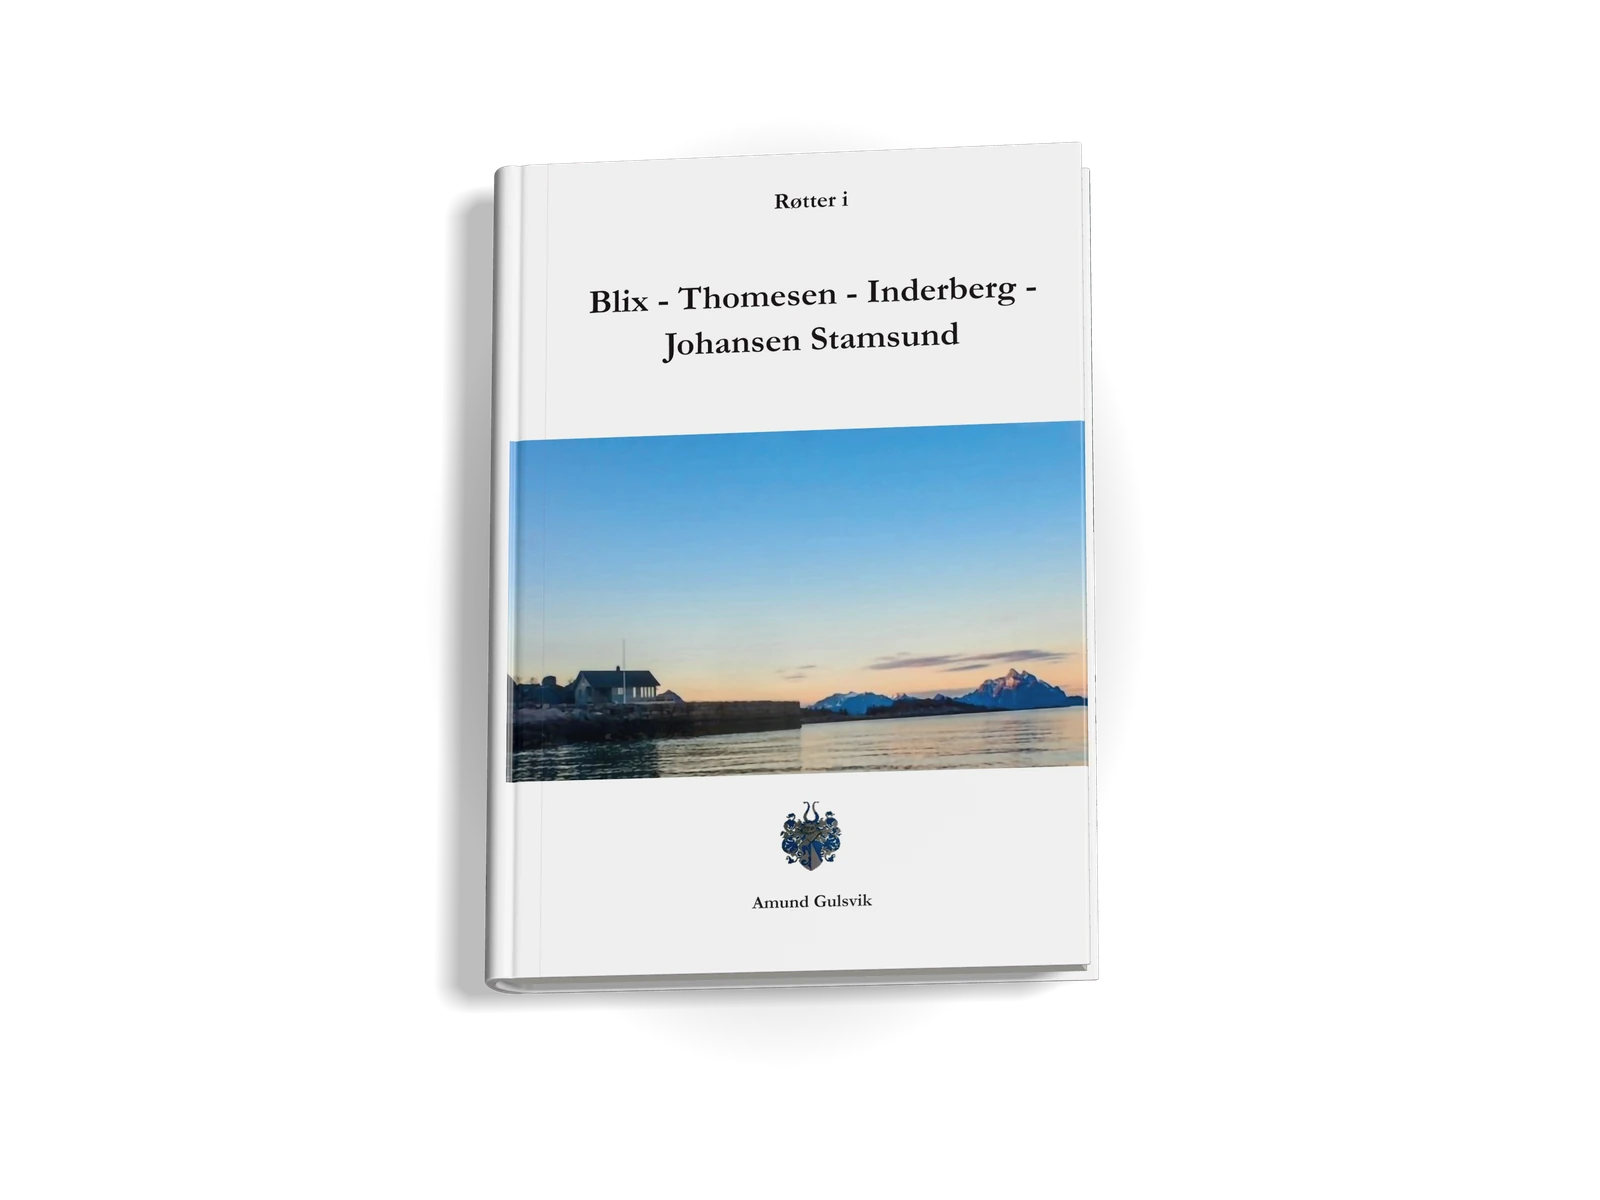
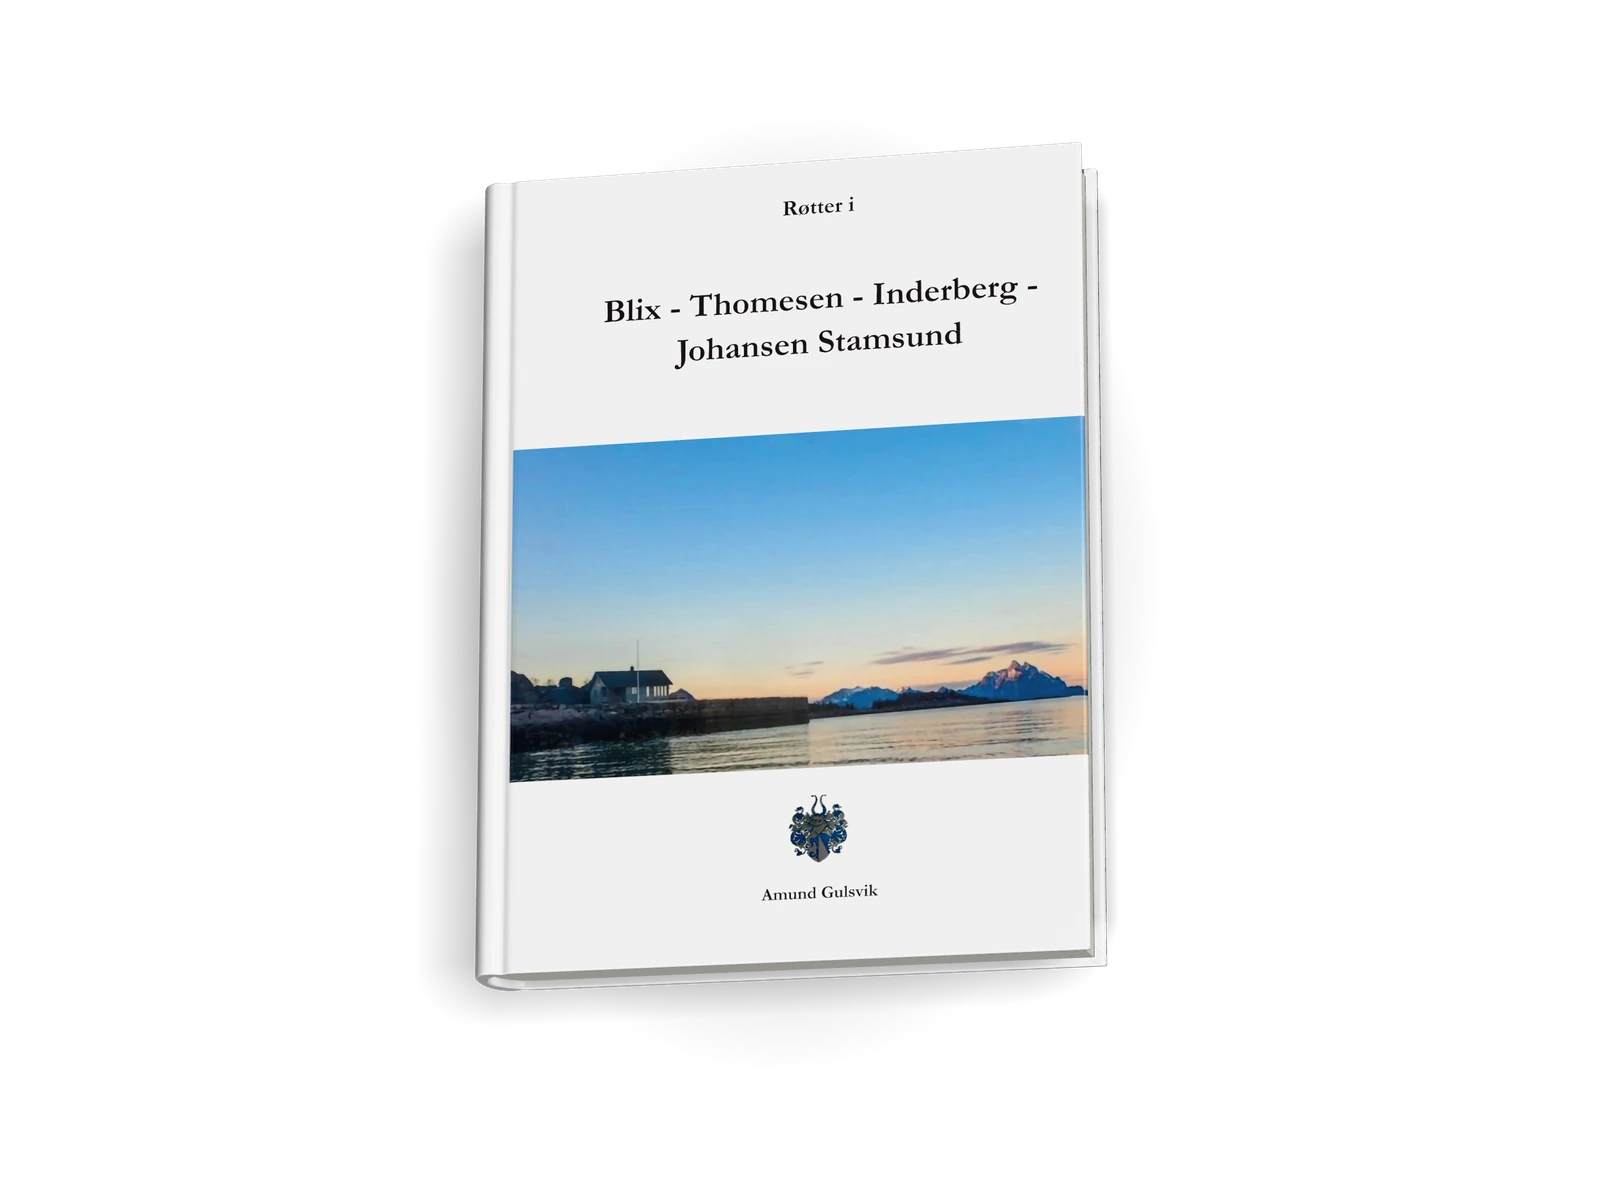
Book render: print-file cover, soft hinge, corner turn-ins, softer shadows
The cover texture is the print PDF laid on the case at its real measures, so the
art wraps round the fore edge. Wider, deeper hinge groove, diagonal turn-in folds
at the board corners, softer cast and contact shadows, camera shows more edge.

Changed region(s): [[0.2812, 0.1233, 0.7188, 0.8325], [0.4688, 0.1542, 0.5312, 0.185]]

diff --git a/tools/book-render/render.html b/tools/book-render/render.html
@@ -5,67 +5,65 @@
 </head><body>
 <script type="module">
 // Offline render of the hardcover (book.md, 3D mockup). Units: mm. Output: transparent PNG, shadow included.
+// Cover texture: cover-wrap.jpg, the print file omslag_34_18.pdf at 10 px/mm (page 560.8 x 383.8 mm).
 import * as THREE from 'three';
 import { RoomEnvironment } from 'three/addons/environments/RoomEnvironment.js';
 import { mergeVertices } from 'three/addons/utils/BufferGeometryUtils.js';
 
 const P = new URLSearchParams(location.search);
-const OUT_W = +(P.get('w') || 1600), OUT_H = +(P.get('h') || 1200);
-const ROT = +(P.get('rot') || 0), CAM_X = +(P.get('cx') || 300), CAM_Y = +(P.get('cy') || 2150), CAM_Z = +(P.get('cz') || 520);
+const num = (k, d) => (P.has(k) ? +P.get(k) : d);
+const OUT_W = num('w', 1600), OUT_H = num('h', 1200);
+const CAM_X = num('cx', 480), CAM_Y = num('cy', 2150), CAM_Z = num('cz', 560);
 
+// print file, mm: back 43.4-253.4 | hinge | spine 263.6-297.4 | hinge | front 307.4-517.4; height 43.4-340.4; turn-in 18
+const PAGE_W = 560.8, PAGE_H = 383.8, FORE_F = 517.4, FORE_B = 43.4, TOP = 43.4, BOT = 340.4;
 const H = 297;          // board height
 const TB = 1.0;         // board thickness in the shape, bevel adds the rest (about 2.8 mm)
 const ZO = 16.2, ZI = ZO - TB;
 const BEV = 0.9;
+const ZOB = ZO + BEV, ZIB = ZI - BEV, XF = 105 + BEV;   // outer surfaces after the bevel
 
-const load = src => new Promise(r => { const i = new Image(); i.onload = () => r(i); i.src = src; });
-const [front, spine, back] = await Promise.all(['cover-front.jpg','cover-spine.jpg','cover-back.jpg'].map(f => load('../../assets/work/book/' + f)));
-
-// one wrap texture: white | back | spine | front | white (the print file order)
-const CH = 1697, SW = Math.round(spine.width * CH / spine.height), M = 48;
-const wrapC = document.createElement('canvas'); wrapC.width = M + 1200 + SW + 1200 + M; wrapC.height = CH;
-const g = wrapC.getContext('2d'); g.fillStyle = '#fff'; g.fillRect(0, 0, wrapC.width, CH);
-g.drawImage(back, M, 0, 1200, CH); g.drawImage(spine, M + 1200, 0, SW, CH); g.drawImage(front, M + 1200 + SW, 0, 1200, CH);
-const WW = wrapC.width;
-const U = { whiteL: (M / 2) / WW, back0: M / WW, spine0: (M + 1200) / WW, front0: (M + 1200 + SW) / WW, front1: (M + 2400 + SW) / WW, whiteR: (WW - M / 2) / WW };
-const wrapTex = new THREE.CanvasTexture(wrapC); wrapTex.colorSpace = THREE.SRGBColorSpace; wrapTex.anisotropy = 16;
+let seed = 7; const rnd = () => (seed = (seed * 16807) % 2147483647) / 2147483647;
+const wrapTex = await new THREE.TextureLoader().loadAsync('cover-wrap.jpg');
+wrapTex.colorSpace = THREE.SRGBColorSpace; wrapTex.anisotropy = 16;
 
 // page edges: fine, slightly irregular lines
 const pc = document.createElement('canvas'); pc.width = 2048; pc.height = 64;
 const pg = pc.getContext('2d'); pg.fillStyle = '#f5f2ea'; pg.fillRect(0, 0, 2048, 64);
-let x = 0, seed = 7; const rnd = () => (seed = (seed * 16807) % 2147483647) / 2147483647;
-while (x < 2048) { const w = 1 + rnd() * 1.6; const a = 0.05 + rnd() * 0.16; pg.fillStyle = `rgba(90,80,60,${a})`; pg.fillRect(x, 0, 0.8, 64); x += w + 2.2 + rnd() * 1.5; }
+for (let x = 0; x < 2048;) { const a = 0.05 + rnd() * 0.16; pg.fillStyle = `rgba(90,80,60,${a})`; pg.fillRect(x, 0, 0.8, 64); x += 3.2 + rnd() * 3; }
 const pageTex = new THREE.CanvasTexture(pc); pageTex.colorSpace = THREE.SRGBColorSpace; pageTex.anisotropy = 16;
 
-// case cross-section (x, z) -> Shape(x, -z); fore edge at x = 105, rounded spine at x = -108
-function caseShape() {
-  const s = new THREE.Shape(); const r = 0.8;
-  const m = (x, z) => s.moveTo(x, -z), l = (x, z) => s.lineTo(x, -z);
-  const q = (cx, cz, x, z) => s.quadraticCurveTo(cx, -cz, x, -z);
-  const b = (ax, az, bx, bz, x, z) => s.bezierCurveTo(ax, -az, bx, -bz, x, -z);
-  m(105 - r, ZO);
-  l(-93.5, ZO);
-  b(-95.5, ZO, -96.2, ZO - 1.1, -97.4, ZO - 1.1);   // hinge groove
-  b(-98.6, ZO - 1.1, -99.2, ZO - 0.2, -100.4, ZO - 0.1);
-  b(-105.6, ZO, -108.2, 8.5, -108.2, 0);             // rounded spine
-  b(-108.2, -8.5, -105.6, -ZO, -100.4, -ZO + 0.1);
-  b(-99.2, -ZO + 0.2, -98.6, -ZO + 1.1, -97.4, -ZO + 1.1);
-  b(-96.2, -ZO + 1.1, -95.5, -ZO, -93.5, -ZO);
-  l(105 - r, -ZO); q(105, -ZO, 105, -ZO + r); l(105, -ZI - r); q(105, -ZI, 105 - r, -ZI);
-  l(-94, -ZI);
-  b(-100, -ZI, -106.4, -7.5, -106.4, 0);             // inside of the spine
-  b(-106.4, 7.5, -100, ZI, -94, ZI);
-  l(105 - r, ZI); q(105, ZI, 105, ZI + r); l(105, ZO - r); q(105, ZO, 105 - r, ZO);
-  return s;
+// outer run of the case, front fore edge -> hinge -> rounded spine -> hinge -> back fore edge, in (x, z)
+function outerRun(p) {
+  const b = (ax, az, bx, bz, x, z) => p.bezierCurveTo(ax, az, bx, bz, x, z);
+  p.lineTo(-103, ZO);
+  b(-105.8, ZO, -106.6, ZO - 1.7, -108.4, ZO - 1.7);   // soft, wide hinge groove
+  b(-110.2, ZO - 1.7, -110.8, ZO - 0.2, -112.2, ZO - 0.1);
+  b(-117.4, ZO, -119.8, 8.5, -119.8, 0);                  // rounded spine
+  b(-119.8, -8.5, -117.4, -ZO, -112.2, -ZO + 0.1);
+  b(-110.8, -ZO + 0.2, -110.2, -ZO + 1.7, -108.4, -ZO + 1.7);
+  b(-106.6, -ZO + 1.7, -105.8, -ZO, -103, -ZO);
+  p.lineTo(105, -ZO);
 }
-// page block: square 3 mm, fore edge slightly concave, back rounded to follow the spine
+function caseShape() {
+  // Shape space is (x, -z); build in (x, z) and flip at the end
+  const p = new THREE.Path(); const r = 0.8;
+  p.moveTo(105 - r, ZO); outerRun(p);
+  p.quadraticCurveTo(105, -ZO, 105, -ZO + r); p.lineTo(105, -ZI - r); p.quadraticCurveTo(105, -ZI, 105 - r, -ZI);
+  p.lineTo(-104, -ZI);
+  p.bezierCurveTo(-111, -ZI, -118, -7.5, -118, 0);        // inside of the spine
+  p.bezierCurveTo(-118, 7.5, -111, ZI, -104, ZI);
+  p.lineTo(105 - r, ZI); p.quadraticCurveTo(105, ZI, 105, ZI + r); p.lineTo(105, ZO - r); p.quadraticCurveTo(105, ZO, 105 - r, ZO);
+  return new THREE.Shape(p.getPoints(48).map(v => new THREE.Vector2(v.x, -v.y)));
+}
+// page block: 3 mm squares, fore edge slightly concave, back rounded to follow the spine
 function blockShape() {
-  const s = new THREE.Shape(); const Z = ZI - BEV - 0.35;
+  const s = new THREE.Shape(); const Z = ZIB - 0.35;
   s.moveTo(101.6, -Z);
   s.quadraticCurveTo(100.4, 0, 101.6, Z);
-  s.lineTo(-96, Z);
-  s.bezierCurveTo(-102, Z, -105.2, 7, -105.2, 0);
-  s.bezierCurveTo(-105.2, -7, -102, -Z, -96, -Z);
+  s.lineTo(-104, Z);
+  s.bezierCurveTo(-111, Z, -116.2, 7, -116.2, 0);
+  s.bezierCurveTo(-116.2, -7, -111, -Z, -104, -Z);
   s.lineTo(101.6, -Z);
   return s;
 }
@@ -78,33 +76,43 @@ function extrude(shape, depth, bevel, segs) {
   return geo;
 }
 
+// arc length along the outer run, so the print file lies on the case at its real measures
+const run = new THREE.Path(); run.moveTo(105, ZO); outerRun(run);
+const pts = run.getSpacedPoints(1600); const acc = [0];
+for (let i = 1; i < pts.length; i++) acc.push(acc[i - 1] + pts[i].distanceTo(pts[i - 1]));
+const L = acc[acc.length - 1], K = (FORE_F - FORE_B) / L;
+function nearest(x, z) {
+  let bi = 0, bd = Infinity;
+  for (let i = 0; i < pts.length; i++) { const dx = pts[i].x - x, dz = pts[i].y - z, d = dx * dx + dz * dz; if (d < bd) { bd = d; bi = i; } }
+  return { s: acc[bi], d: Math.sqrt(bd) };
+}
+
 const caseGeo = extrude(caseShape(), H - 2 * BEV, BEV, 7);
-{ // UVs for the case from position and normal
+{
   const p = caseGeo.attributes.position, n = caseGeo.attributes.normal, uv = new Float32Array(p.count * 2);
   for (let i = 0; i < p.count; i++) {
-    const X = p.getX(i), Y = p.getY(i), Z = p.getZ(i), nz = n.getZ(i);
+    const X = p.getX(i), Y = p.getY(i), Z = p.getZ(i), ny = n.getY(i);
+    const { s, d } = nearest(X, Z);
     let u;
-    const v = THREE.MathUtils.clamp((Y + H / 2) / H, 0, 1);
-    if (X < -99.8) { // spine: angle from back (0) to front (1)
-      const t = THREE.MathUtils.clamp(0.5 + Math.atan2(Z, -X - 97) / Math.PI, 0, 1);
-      u = U.spine0 + t * (U.front0 - U.spine0);
-    } else if (Z > 0) {
-      u = nz < -0.35 ? U.whiteR : U.front0 + THREE.MathUtils.clamp((X + 105) / 210, 0.004, 0.996) * (U.front1 - U.front0);
-    } else {
-      u = nz > 0.35 ? U.whiteL : U.back0 + THREE.MathUtils.clamp((105 - X) / 210, 0.004, 0.996) * (U.spine0 - U.back0);
-    }
-    uv[2 * i] = u; uv[2 * i + 1] = v;
+    if (X > -103 && d > BEV + 0.35) {       // board edge and inside: the turn-in continues past the fold
+      const thick = ZOB - ZIB;
+      if (Z > 0) u = X > 104.2 ? FORE_F + (ZOB - Z) : FORE_F + thick + (XF - X);
+      else u = X > 104.2 ? FORE_B - (ZOB + Z) : FORE_B - thick - (XF - X);
+    } else u = FORE_F - s * K;
+    let v = TOP + (H / 2 - Y);
+    if (Math.abs(ny) > 0.7) v = ny > 0 ? TOP - Math.min(d, 20) : BOT + Math.min(d, 20);   // head and tail edges
+    uv[2 * i] = THREE.MathUtils.clamp(u, 0, PAGE_W) / PAGE_W;
+    uv[2 * i + 1] = 1 - THREE.MathUtils.clamp(v, 0, PAGE_H) / PAGE_H;
   }
   caseGeo.setAttribute('uv', new THREE.BufferAttribute(uv, 2));
 }
 const blockGeo = extrude(blockShape(), H - 6 - 0.6, 0.3, 2);
 {
   const p = blockGeo.attributes.position, n = blockGeo.attributes.normal, uv = new Float32Array(p.count * 2);
-  const Z = ZI;
   for (let i = 0; i < p.count; i++) {
-    const X = p.getX(i), Y = p.getY(i), Zp = p.getZ(i), ny = Math.abs(n.getY(i));
-    uv[2 * i] = (Zp + Z) / (2 * Z);
-    uv[2 * i + 1] = ny > 0.6 ? (X + 110) / 220 : (Y + H / 2) / H;
+    const X = p.getX(i), Y = p.getY(i), Z = p.getZ(i), ny = Math.abs(n.getY(i));
+    uv[2 * i] = (Z + ZI) / (2 * ZI);
+    uv[2 * i + 1] = ny > 0.6 ? (X + 120) / 240 : (Y + H / 2) / H;
   }
   blockGeo.setAttribute('uv', new THREE.BufferAttribute(uv, 2));
 }
@@ -113,14 +121,14 @@ const renderer = new THREE.WebGLRenderer({ antialias: true, alpha: true, preserv
 renderer.setPixelRatio(1); renderer.setSize(OUT_W, OUT_H, false);
 renderer.setClearColor(0x000000, 0);
 renderer.outputColorSpace = THREE.SRGBColorSpace;
-renderer.toneMapping = THREE.NeutralToneMapping; renderer.toneMappingExposure = +(P.get('ex') || 1.0);
+renderer.toneMapping = THREE.NeutralToneMapping; renderer.toneMappingExposure = num('ex', 1.0);
 renderer.shadowMap.enabled = true; renderer.shadowMap.type = THREE.VSMShadowMap;
 document.body.appendChild(renderer.domElement);
 
 const scene = new THREE.Scene();
 const pmrem = new THREE.PMREMGenerator(renderer);
 scene.environment = pmrem.fromScene(new RoomEnvironment(), 0.04).texture;
-scene.environmentIntensity = +(P.get('env') || 0.22);
+scene.environmentIntensity = num('env', 0.24);
 
 // matte laminate grain
 const nc = document.createElement('canvas'); nc.width = nc.height = 512;
@@ -129,39 +137,55 @@ for (let i = 0; i < nd.data.length; i += 4) { const v = 118 + rnd() * 20; nd.dat
 ng.putImageData(nd, 0, 0);
 const grain = new THREE.CanvasTexture(nc); grain.wrapS = grain.wrapT = THREE.RepeatWrapping; grain.repeat.set(9, 6);
 const coverMat = new THREE.MeshPhysicalMaterial({ map: wrapTex, roughness: 0.55, roughnessMap: grain, bumpMap: grain, bumpScale: 0.25, clearcoat: 0.2, clearcoatRoughness: 0.45 });
+// corner turn-ins: where the cover is folded over the board, a diagonal fold runs across the edge
+// (fore face: |y| from the corner = depth from the outer face; head/tail face: the same from the fore edge; inside: the mitre)
+coverMat.onBeforeCompile = sh => {
+  sh.vertexShader = sh.vertexShader.replace('#include <common>', '#include <common>\nvarying vec3 vObj;')
+    .replace('#include <begin_vertex>', '#include <begin_vertex>\nvObj = position;');
+  sh.fragmentShader = sh.fragmentShader.replace('#include <common>', '#include <common>\nvarying vec3 vObj;')
+    .replace('#include <map_fragment>', `#include <map_fragment>
+    {
+      float dx = max(${XF.toFixed(2)} - vObj.x, 0.0);
+      float dy = max(${(H / 2).toFixed(2)} - abs(vObj.y), 0.0);
+      float dz = ${ZOB.toFixed(2)} - abs(vObj.z);
+      float zone = (1.0 - smoothstep(14.0, 18.0, dx)) * (1.0 - smoothstep(14.0, 18.0, dy)) * smoothstep(0.08, 0.3, dz);
+      float m = abs(dx - dy) - dz;
+      float fold = 1.0 - smoothstep(0.03, 0.22, abs(m));
+      float lip = 1.0 - smoothstep(0.05, 0.4, abs(m - 0.3));
+      diffuseColor.rgb *= 1.0 - zone * (0.32 * fold - 0.06 * lip);
+    }`);
+};
 const pageMat = new THREE.MeshStandardMaterial({ map: pageTex, roughness: 0.95 });
 const book = new THREE.Group();
 const caseMesh = new THREE.Mesh(caseGeo, coverMat), blockMesh = new THREE.Mesh(blockGeo, pageMat);
 for (const m of [caseMesh, blockMesh]) { m.castShadow = true; m.receiveShadow = true; book.add(m); }
 // lying on the table, front up, head away from the camera
 book.rotation.x = -Math.PI / 2;
-book.rotation.z = THREE.MathUtils.degToRad(ROT);
-book.position.y = ZO + BEV + 0.01;
+book.position.y = ZOB + 0.01;
 scene.add(book);
 
 // floor: shadow only, so the PNG sits on any pale ground
-const floor = new THREE.Mesh(new THREE.PlaneGeometry(4000, 4000), new THREE.ShadowMaterial({ opacity: 0.26 }));
+const floor = new THREE.Mesh(new THREE.PlaneGeometry(4000, 4000), new THREE.ShadowMaterial({ opacity: num('so', 0.2) }));
 floor.rotation.x = -Math.PI / 2; floor.receiveShadow = true; scene.add(floor);
-// contact shadow under the book
+// contact shadow under the book, soft
 const cc = document.createElement('canvas'); cc.width = cc.height = 256;
 const cg = cc.getContext('2d'); const grd = cg.createRadialGradient(128, 128, 0, 128, 128, 128);
-grd.addColorStop(0, 'rgba(0,0,0,0.55)'); grd.addColorStop(0.55, 'rgba(0,0,0,0.25)'); grd.addColorStop(1, 'rgba(0,0,0,0)');
+grd.addColorStop(0, 'rgba(0,0,0,0.4)'); grd.addColorStop(0.6, 'rgba(0,0,0,0.16)'); grd.addColorStop(1, 'rgba(0,0,0,0)');
 cg.fillStyle = grd; cg.fillRect(0, 0, 256, 256);
-const contact = new THREE.Mesh(new THREE.PlaneGeometry(262, 350), new THREE.MeshBasicMaterial({ map: new THREE.CanvasTexture(cc), transparent: true, depthWrite: false }));
-contact.rotation.x = -Math.PI / 2; contact.position.set(-6, 0.05, 2);
-const contactHolder = new THREE.Group(); contactHolder.rotation.y = book.rotation.z; contactHolder.add(contact); scene.add(contactHolder);
+const contact = new THREE.Mesh(new THREE.PlaneGeometry(275, 360), new THREE.MeshBasicMaterial({ map: new THREE.CanvasTexture(cc), transparent: true, depthWrite: false }));
+contact.rotation.x = -Math.PI / 2; contact.position.set(-10, 0.05, 2); scene.add(contact);
 
-// key light from the right, soft
-const key = new THREE.DirectionalLight(0xffffff, +(P.get('ki') || 2.3));
-key.position.set(+(P.get('kx') || 600), +(P.get('ky') || 900), +(P.get('kz') || -60)); key.castShadow = true;
-key.shadow.mapSize.set(2048, 2048); key.shadow.radius = 14; key.shadow.blurSamples = 25;
+// key light from the right, soft shadow
+const key = new THREE.DirectionalLight(0xffffff, num('ki', 2.3));
+key.position.set(num('kx', 600), num('ky', 900), num('kz', -60)); key.castShadow = true;
+key.shadow.mapSize.set(2048, 2048); key.shadow.radius = num('sr', 34); key.shadow.blurSamples = 48;
 key.shadow.bias = -0.0004; key.shadow.normalBias = 0.6;
 Object.assign(key.shadow.camera, { left: -420, right: 420, top: 420, bottom: -420, near: 100, far: 2000 });
 scene.add(key);
-const fill = new THREE.DirectionalLight(0xffffff, 0.18); fill.position.set(-600, 300, 500); scene.add(fill);
+const fill = new THREE.DirectionalLight(0xffffff, 0.2); fill.position.set(-600, 300, 500); scene.add(fill);
 
-const camera = new THREE.PerspectiveCamera(+(P.get('fov') || 11), OUT_W / OUT_H, 10, 5000);
-camera.up.set(0, 0, -1); camera.position.set(CAM_X, CAM_Y, CAM_Z); camera.lookAt(0, 0, 8);
+const camera = new THREE.PerspectiveCamera(num('fov', 11), OUT_W / OUT_H, 10, 5000);
+camera.up.set(0, 0, -1); camera.position.set(CAM_X, CAM_Y, CAM_Z); camera.lookAt(-6, 0, 8);
 renderer.render(scene, camera);
 window.__done = true;
 </script>

diff --git a/tools/book-render/crops.py b/tools/book-render/crops.py
@@ -1,0 +1,9 @@
+# Crops of a render for checking details: python crops.py big.png
+import sys
+from PIL import Image
+im=Image.open(sys.argv[1] if len(sys.argv)>1 else 'big.png')
+bg=Image.new('RGBA',im.size,(233,233,230,255)); bg.alpha_composite(im)
+bg.resize((800,600),Image.LANCZOS).save('prev.png')
+bg.crop((1950,1650,2350,2050)).save('crop_br.png')
+bg.crop((850,250,1450,850)).save('crop_tl.png')
+bg.crop((1950,300,2350,700)).save('crop_tr.png')

diff --git a/book.md b/book.md
@@ -32,7 +32,7 @@ Built in CSS from her own cover file, no stock mockup: front, spine and back pan
 - **Reference:** her photos of the printed book (2026-09-26, Notion *For Portfolio* → "Book mockup: the real hardcover"): matte white case binding, rounded spine with a hinge groove, boards overhanging the page block, a sewn block that curves into the gutter.
 - **Light:** from the right on every mockup, so shadows fall to the left onto the ground.
 - **Project page:** one closed book, turned three-quarters to show the front and the spine, on a pale well; hinge groove on the front, rounded spine, shadow on the backdrop to the left; the back cover beside it.
-- **Work-list thumbnail (since 2026-09-28):** one hardcover lying face up, seen almost from above, thickness showing on the right (fore edge) and bottom (tail); references in Notion *For Portfolio* → "Book thumbnail: one book, lying face up". Rendered offline in three.js from her cover files ([`tools/book-render/render.html`](tools/book-render/render.html)), not CSS: a 2.8 mm case with rounded edges and corners, 3 mm squares, a rounded spine with hinge groove, a slightly concave page block with fine page lines, matte laminate grain, key light from the right with a soft shadow falling left. Output `assets/work/book/book-mockup.webp`, 1600 × 1200, transparent, rendered at 3200 × 2400 and downscaled. To re-render: `npm install` in the tool folder, serve the repo root, open `/tools/book-render/render.html?w=3200&h=2400`, save the canvas.
+- **Work-list thumbnail (since 2026-09-28):** one hardcover lying face up, seen almost from above, thickness showing on the right (fore edge) and bottom (tail); references in Notion *For Portfolio* → "Book thumbnail: one book, lying face up" and "Book render: hinge shadow and corner turn-ins". Rendered offline in three.js ([`tools/book-render/render.html`](tools/book-render/render.html)), not CSS. The cover texture is the print file itself (`omslag_34_18.pdf` at 10 px/mm → `tools/book-render/cover-wrap.jpg`, InDesign frame hairlines removed), laid on the case by arc length at the print measures: front 307.4–517.4 mm, a 10 mm hinge, the 34 mm spine; past the fore edge and the head and tail the 18 mm turn-in continues, so the cover art wraps round the board edge instead of stopping at it. Case: 2.8 mm boards with rounded edges and corners, 3 mm squares, a wide soft hinge groove, a rounded spine; corner turn-ins show as a diagonal fold across the board edge and a mitre inside; a slightly concave page block with fine page lines; matte laminate grain; key light from the right with a soft shadow falling left. Output `assets/work/book/book-mockup.webp`, 1600 × 1200, transparent, rendered at 3200 × 2400 and downscaled. To re-render: `npm install` in the tool folder, serve the repo root, open `/tools/book-render/render.html?w=3200&h=2400`, save the canvas (`decode.py`, `crops.py` help check details).
 - **Spreads:** each spread sits on the white cover board, which shows around the pages as the square. Page edges stack at the outer sides, thicker on the side that holds more pages (left share = first page ÷ 432). The pages curve down into a sewn gutter: the top and bottom edges dip toward the spine, the crease is dark, and the shadow is wider on the right page, which faces away from the light.
 
 ## Spreads (her selection)
